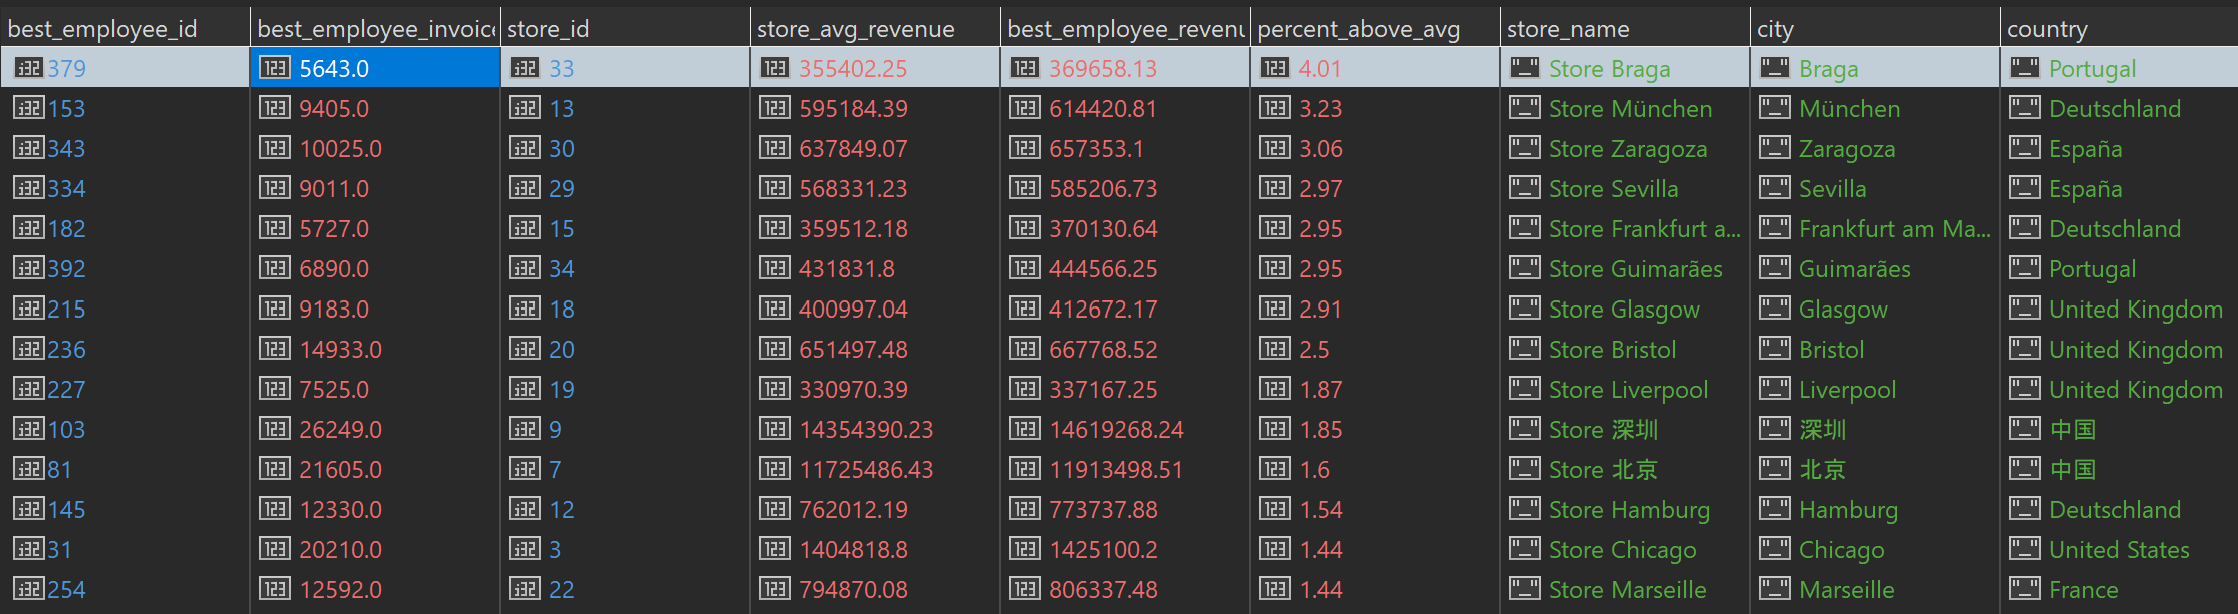
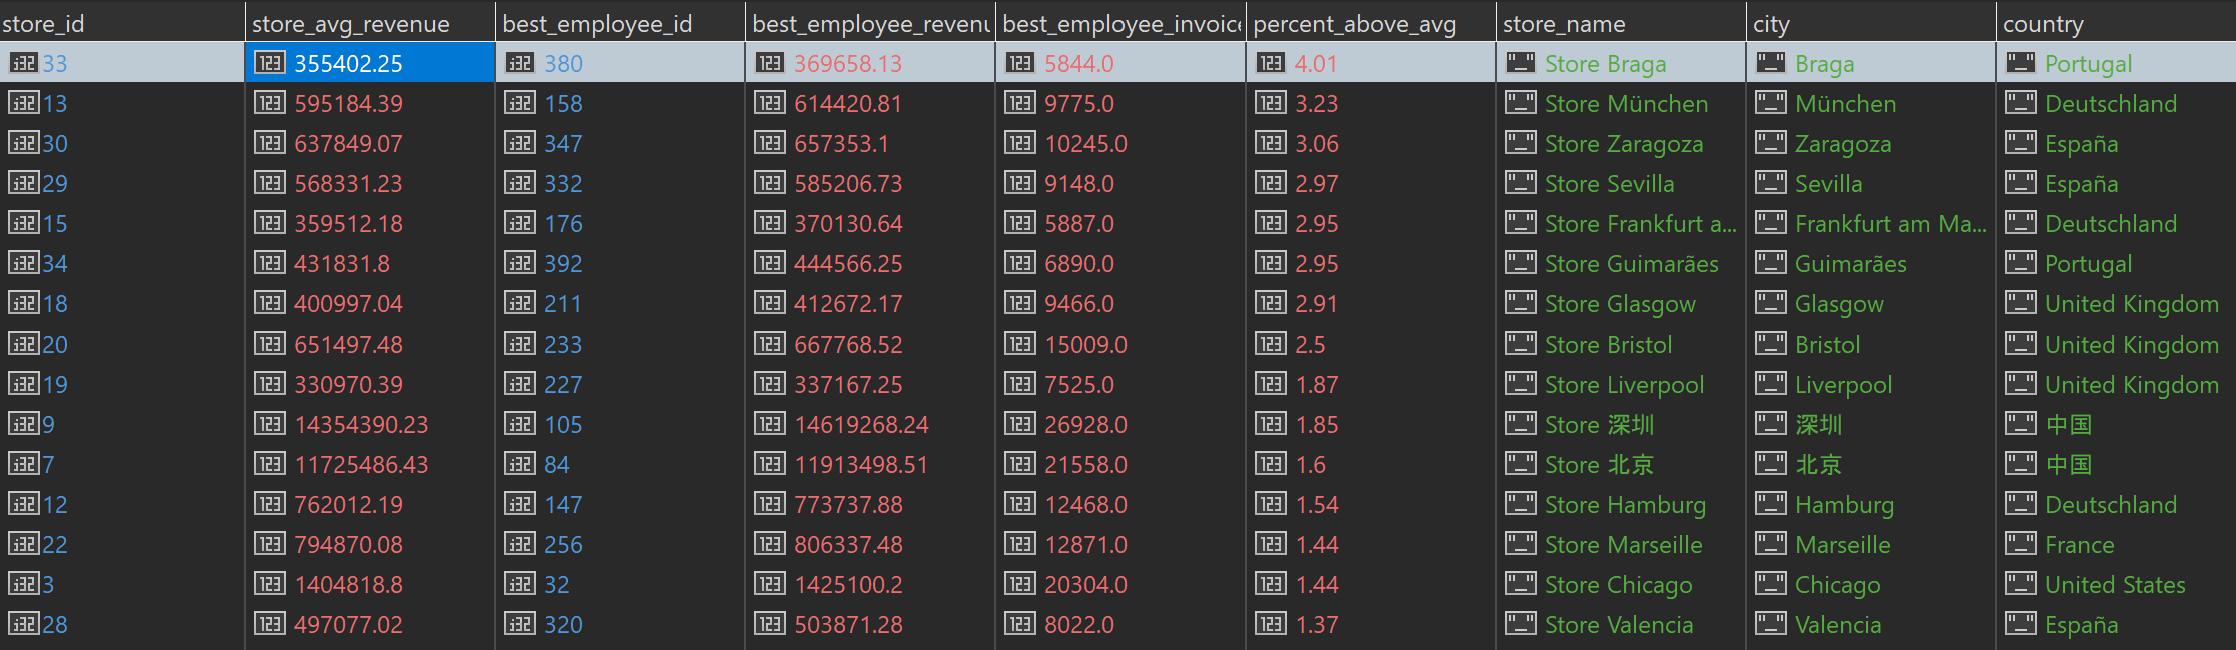
update 5.query tanja

Changed region(s): [[0.0, 0.0309, 1.0, 0.9902]]

diff --git a/initial-schema/queries/tanja/README.md b/initial-schema/queries/tanja/README.md
@@ -320,9 +320,16 @@ db.getCollection("invoices").aggregate([
     $group: {
       _id: "$_id.store_id",
       store_avg_revenue: { $avg: "$total_revenue" },
-      best_employee_id: { $first: "$_id.employee_id" },
-      best_employee_revenue: { $max: "$total_revenue" },
-      best_employee_invoices: { $first: "$total_invoices" }
+      best_employee: {
+        $top: {
+          sortBy: { total_revenue: -1 },
+          output: {
+            employee_id: "$_id.employee_id",
+            total_revenue: "$total_revenue",
+            total_invoices: "$total_invoices"
+          }
+        }
+      }
     }
   },
   {
@@ -330,16 +337,16 @@ db.getCollection("invoices").aggregate([
       _id: 0,
       store_id: "$_id",
       store_avg_revenue: { $round: ["$store_avg_revenue", 2] },
-      best_employee_id: 1,
-      best_employee_revenue: { $round: ["$best_employee_revenue", 2] },
-      best_employee_invoices: 1,
+      best_employee_id: "$best_employee.employee_id",
+      best_employee_revenue: { $round: ["$best_employee.total_revenue", 2] },
+      best_employee_invoices: "$best_employee.total_invoices",
       percent_above_avg: {
         $round: [
           {
             $multiply: [
               {
                 $divide: [
-                  { $subtract: ["$best_employee_revenue", "$store_avg_revenue"] },
+                  { $subtract: ["$best_employee.total_revenue", "$store_avg_revenue"] },
                   "$store_avg_revenue"
                 ]
               },

diff --git a/initial-schema/scripts/README.md b/initial-schema/scripts/README.md
@@ -1,0 +1,1 @@
+# Uputstvo za Pokretanje Projekta
